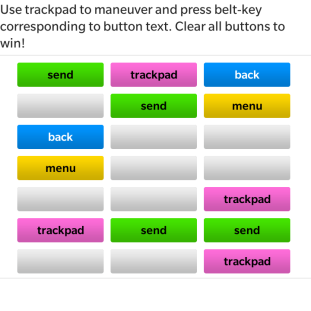
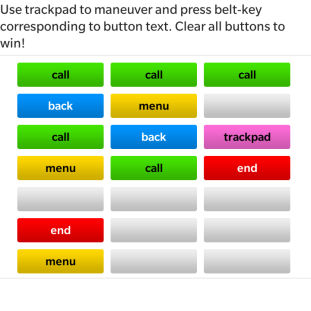
fixed typos and updated screenshots

diff --git a/highlighter/assets/CMenu.qml b/highlighter/assets/CMenu.qml
@@ -79,7 +79,7 @@ Container {
             Label {
                 verticalAlignment: VerticalAlignment.Center
                 horizontalAlignment: HorizontalAlignment.Center
-                text: "Hightlight Effects"
+                text: "Highlight Effects"
                 textStyle.color: ui.palette.primaryDark
                 textStyle.base: SystemDefaults.TextStyles.BodyText
                 textStyle.fontFamily: 'Comic Sans MS'
@@ -150,7 +150,7 @@ Container {
             selected: true 
         }
         Option { 
-            text: "LinearGgradient"
+            text: "LinearGradient"
             value: "grad"
         }
         

diff --git a/belt/assets/main.qml b/belt/assets/main.qml
@@ -20,7 +20,7 @@ import bb.device 1.3
 Page {
     id: main
     // List of button names to be used for random name assignment
-    property variant beltText: ["","send", "", "", "end", "", "menu", "back","", "trackpad"]
+    property variant beltText: ["","call", "", "", "end", "", "menu", "back","", "trackpad"]
     
     // List of button colors that correspond to each of the above button names
     property variant beltColors: ["#EFEFEF","#44E500","#EFEFEF","#EFEFEF","#FF0000","#EFEFEF","#FFD800","#0094FF","#EFEFEF","#FF6DDA"]

diff --git a/belt/assets/BeltButton.qml b/belt/assets/BeltButton.qml
@@ -38,7 +38,7 @@ Container {
             DeviceShortcut {
                 type: DeviceShortcuts.SendTap
                 onTriggered: {
-                    if(text.indexOf("send") >= 0) {
+                    if(text.indexOf("call") >= 0) {
                         clearButton()
                     }
                 }
